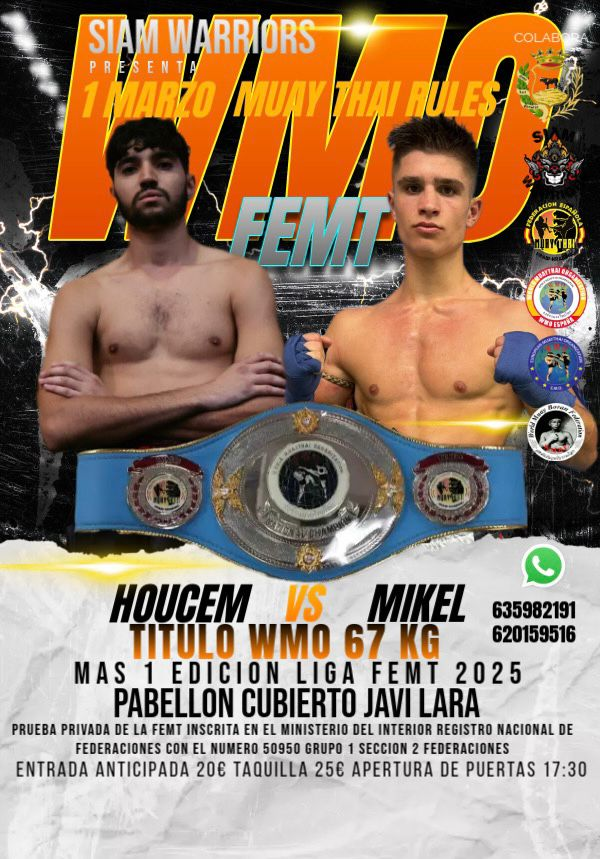
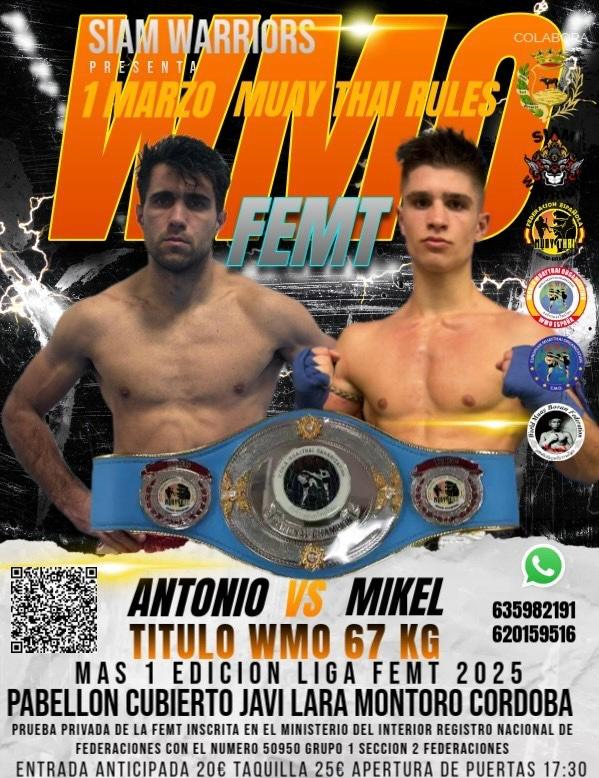
- Añadido nuevo cartel para el Evento de 1 de Marzo 2025. - Añadadida una nueva fotografía en la sección de competiciones.

diff --git a/seminarios.html b/seminarios.html
@@ -185,6 +185,19 @@
             </div>
             <!-- End Portfolio Item -->
 
+            <div class="col-lg-4 col-md-6 portfolio-item isotope-item filter-competiciones">
+              <img src="assets/img/seminarios/WhatsApp Image 2025-02-17 at 11.06.26.jpeg" loading="lazy"
+                class="img-fluid" alt="">
+              <div class="portfolio-info">
+                <h4></h4>
+                <a href="assets/img/seminarios/WhatsApp Image 2025-02-17 at 11.06.26.jpeg" loading="lazy"
+                  data-gallery="portfolio-gallery-branding" class="glightbox preview-link"><i
+                    class="bi bi-zoom-in"></i></a>
+
+              </div>
+            </div>
+            <!-- End Portfolio Item -->
+
             <div class="col-lg-4 col-md-6 portfolio-item isotope-item filter-seminarios">
               <img src="assets/img/seminarios/13497550_10204962689826866_4902564495594846530_o.jpg" loading="lazy"
                 class="img-fluid" alt="">
